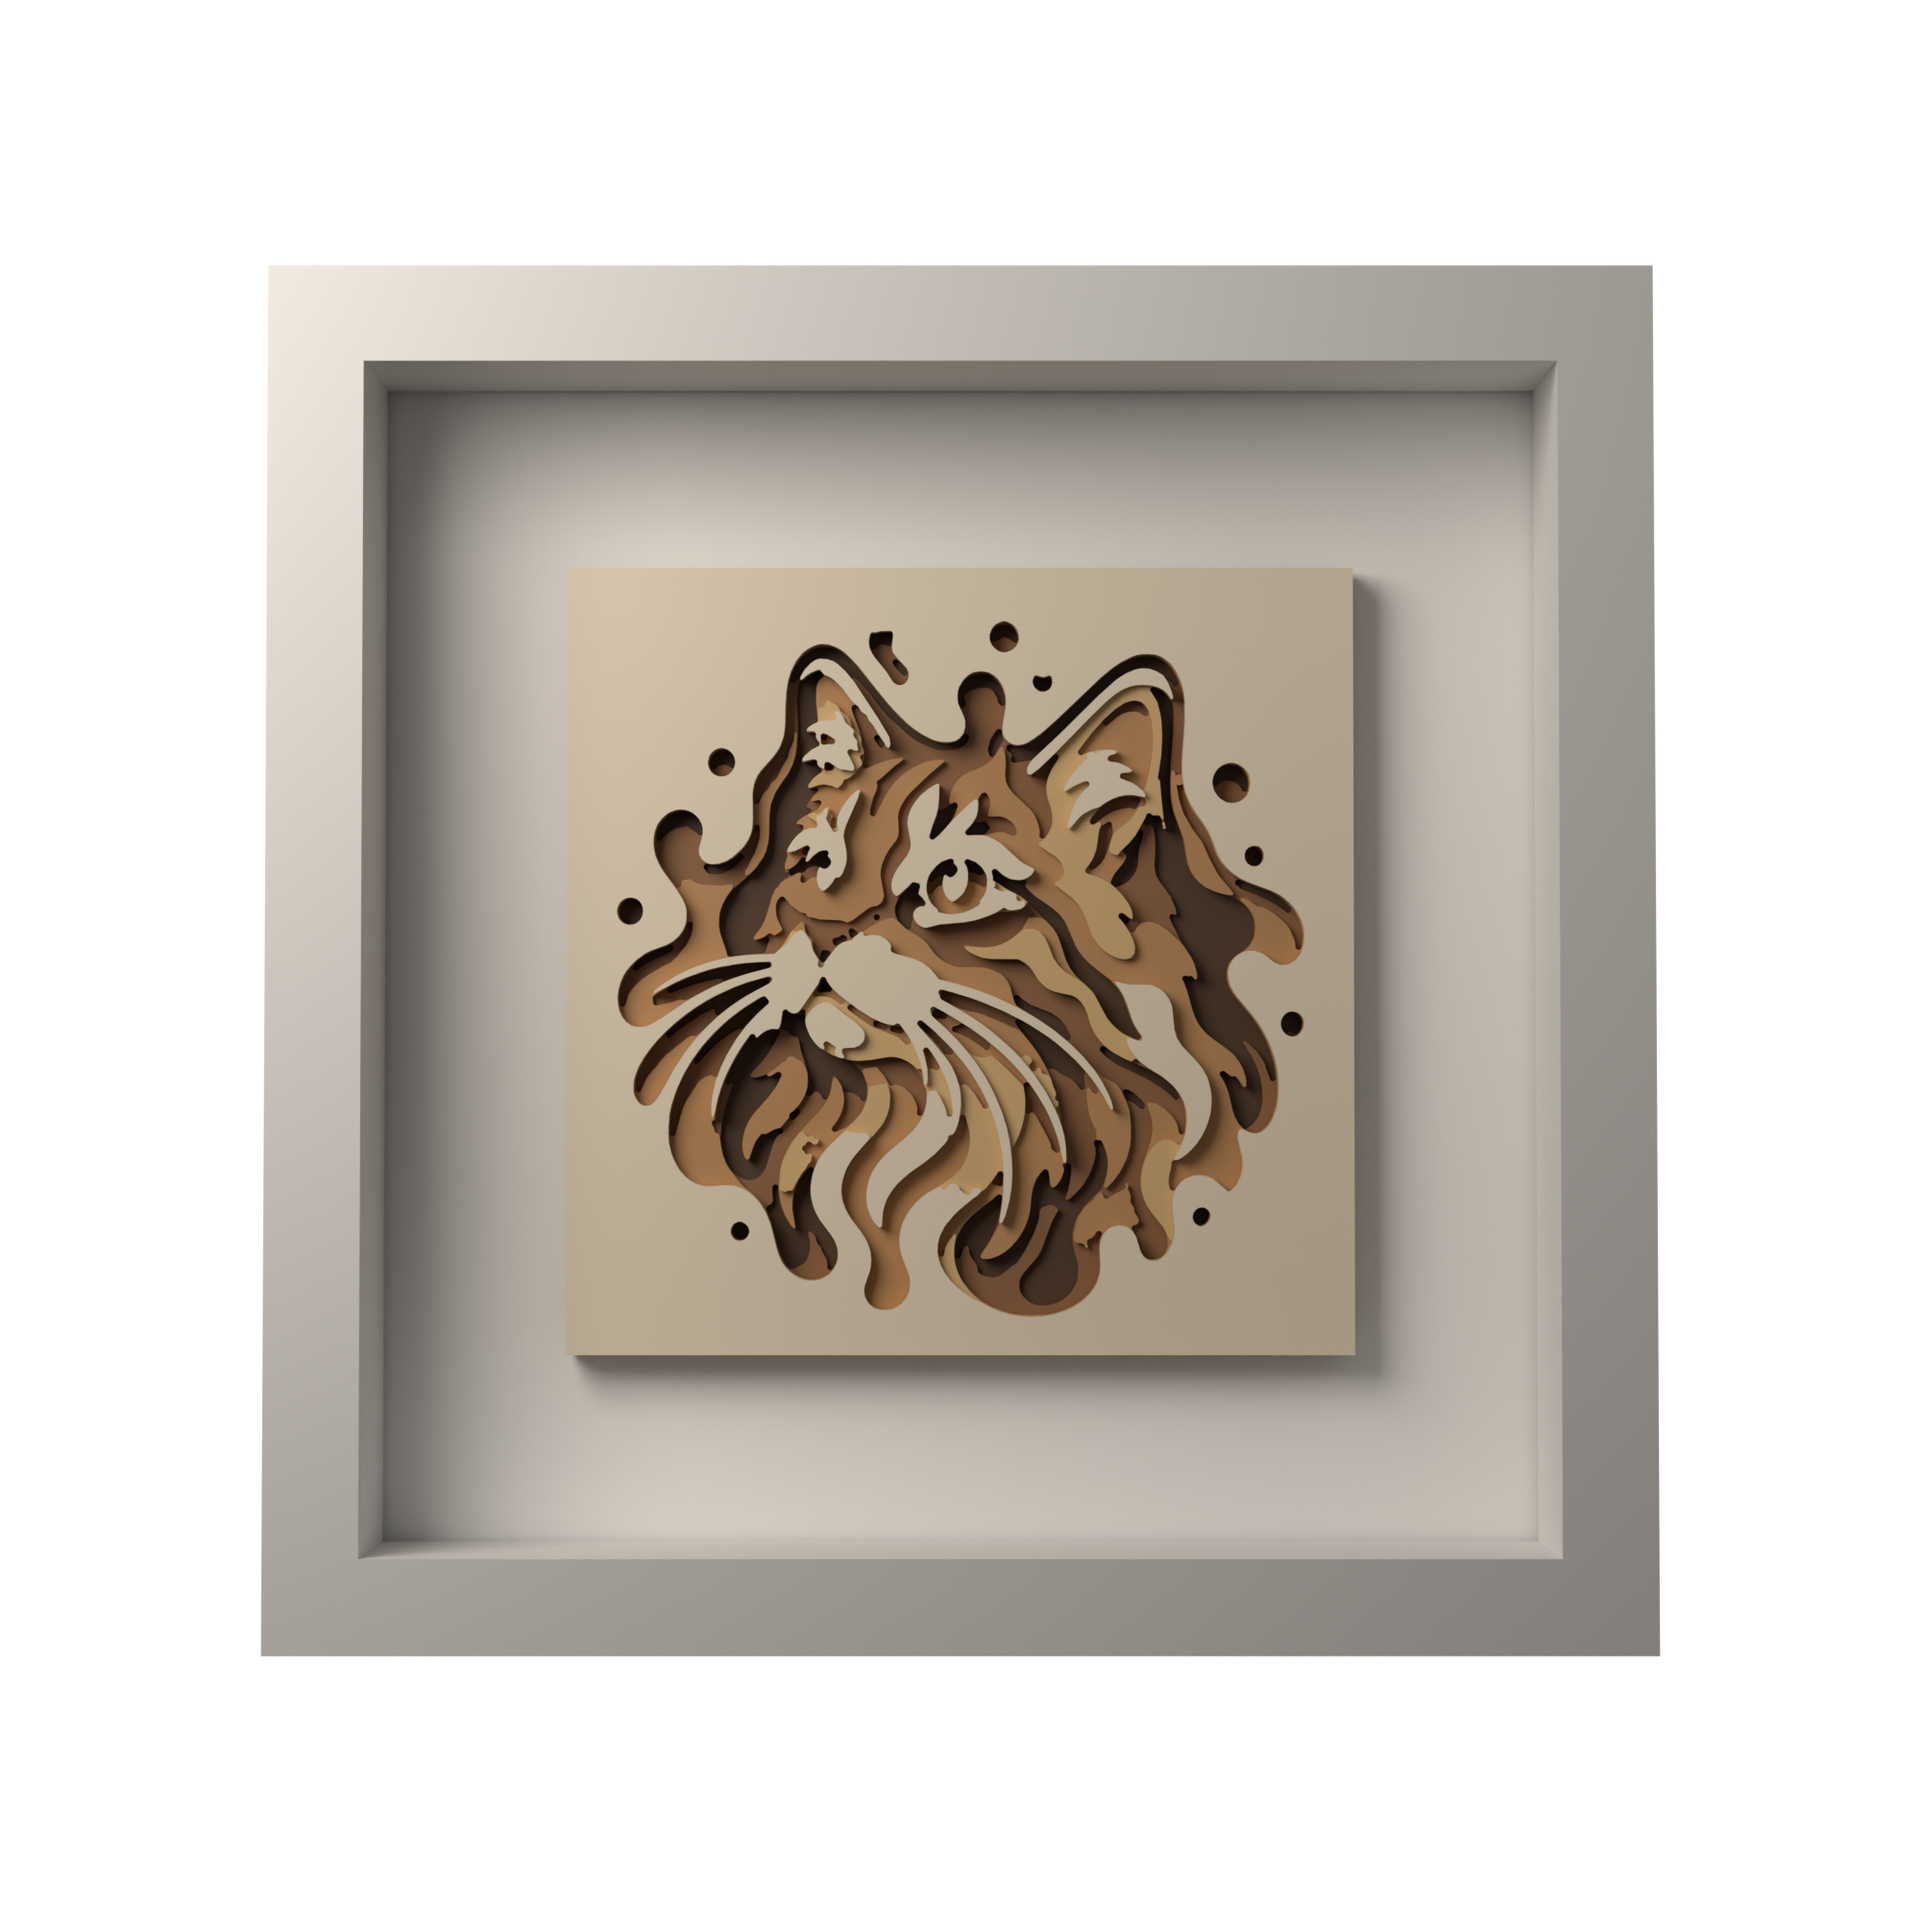
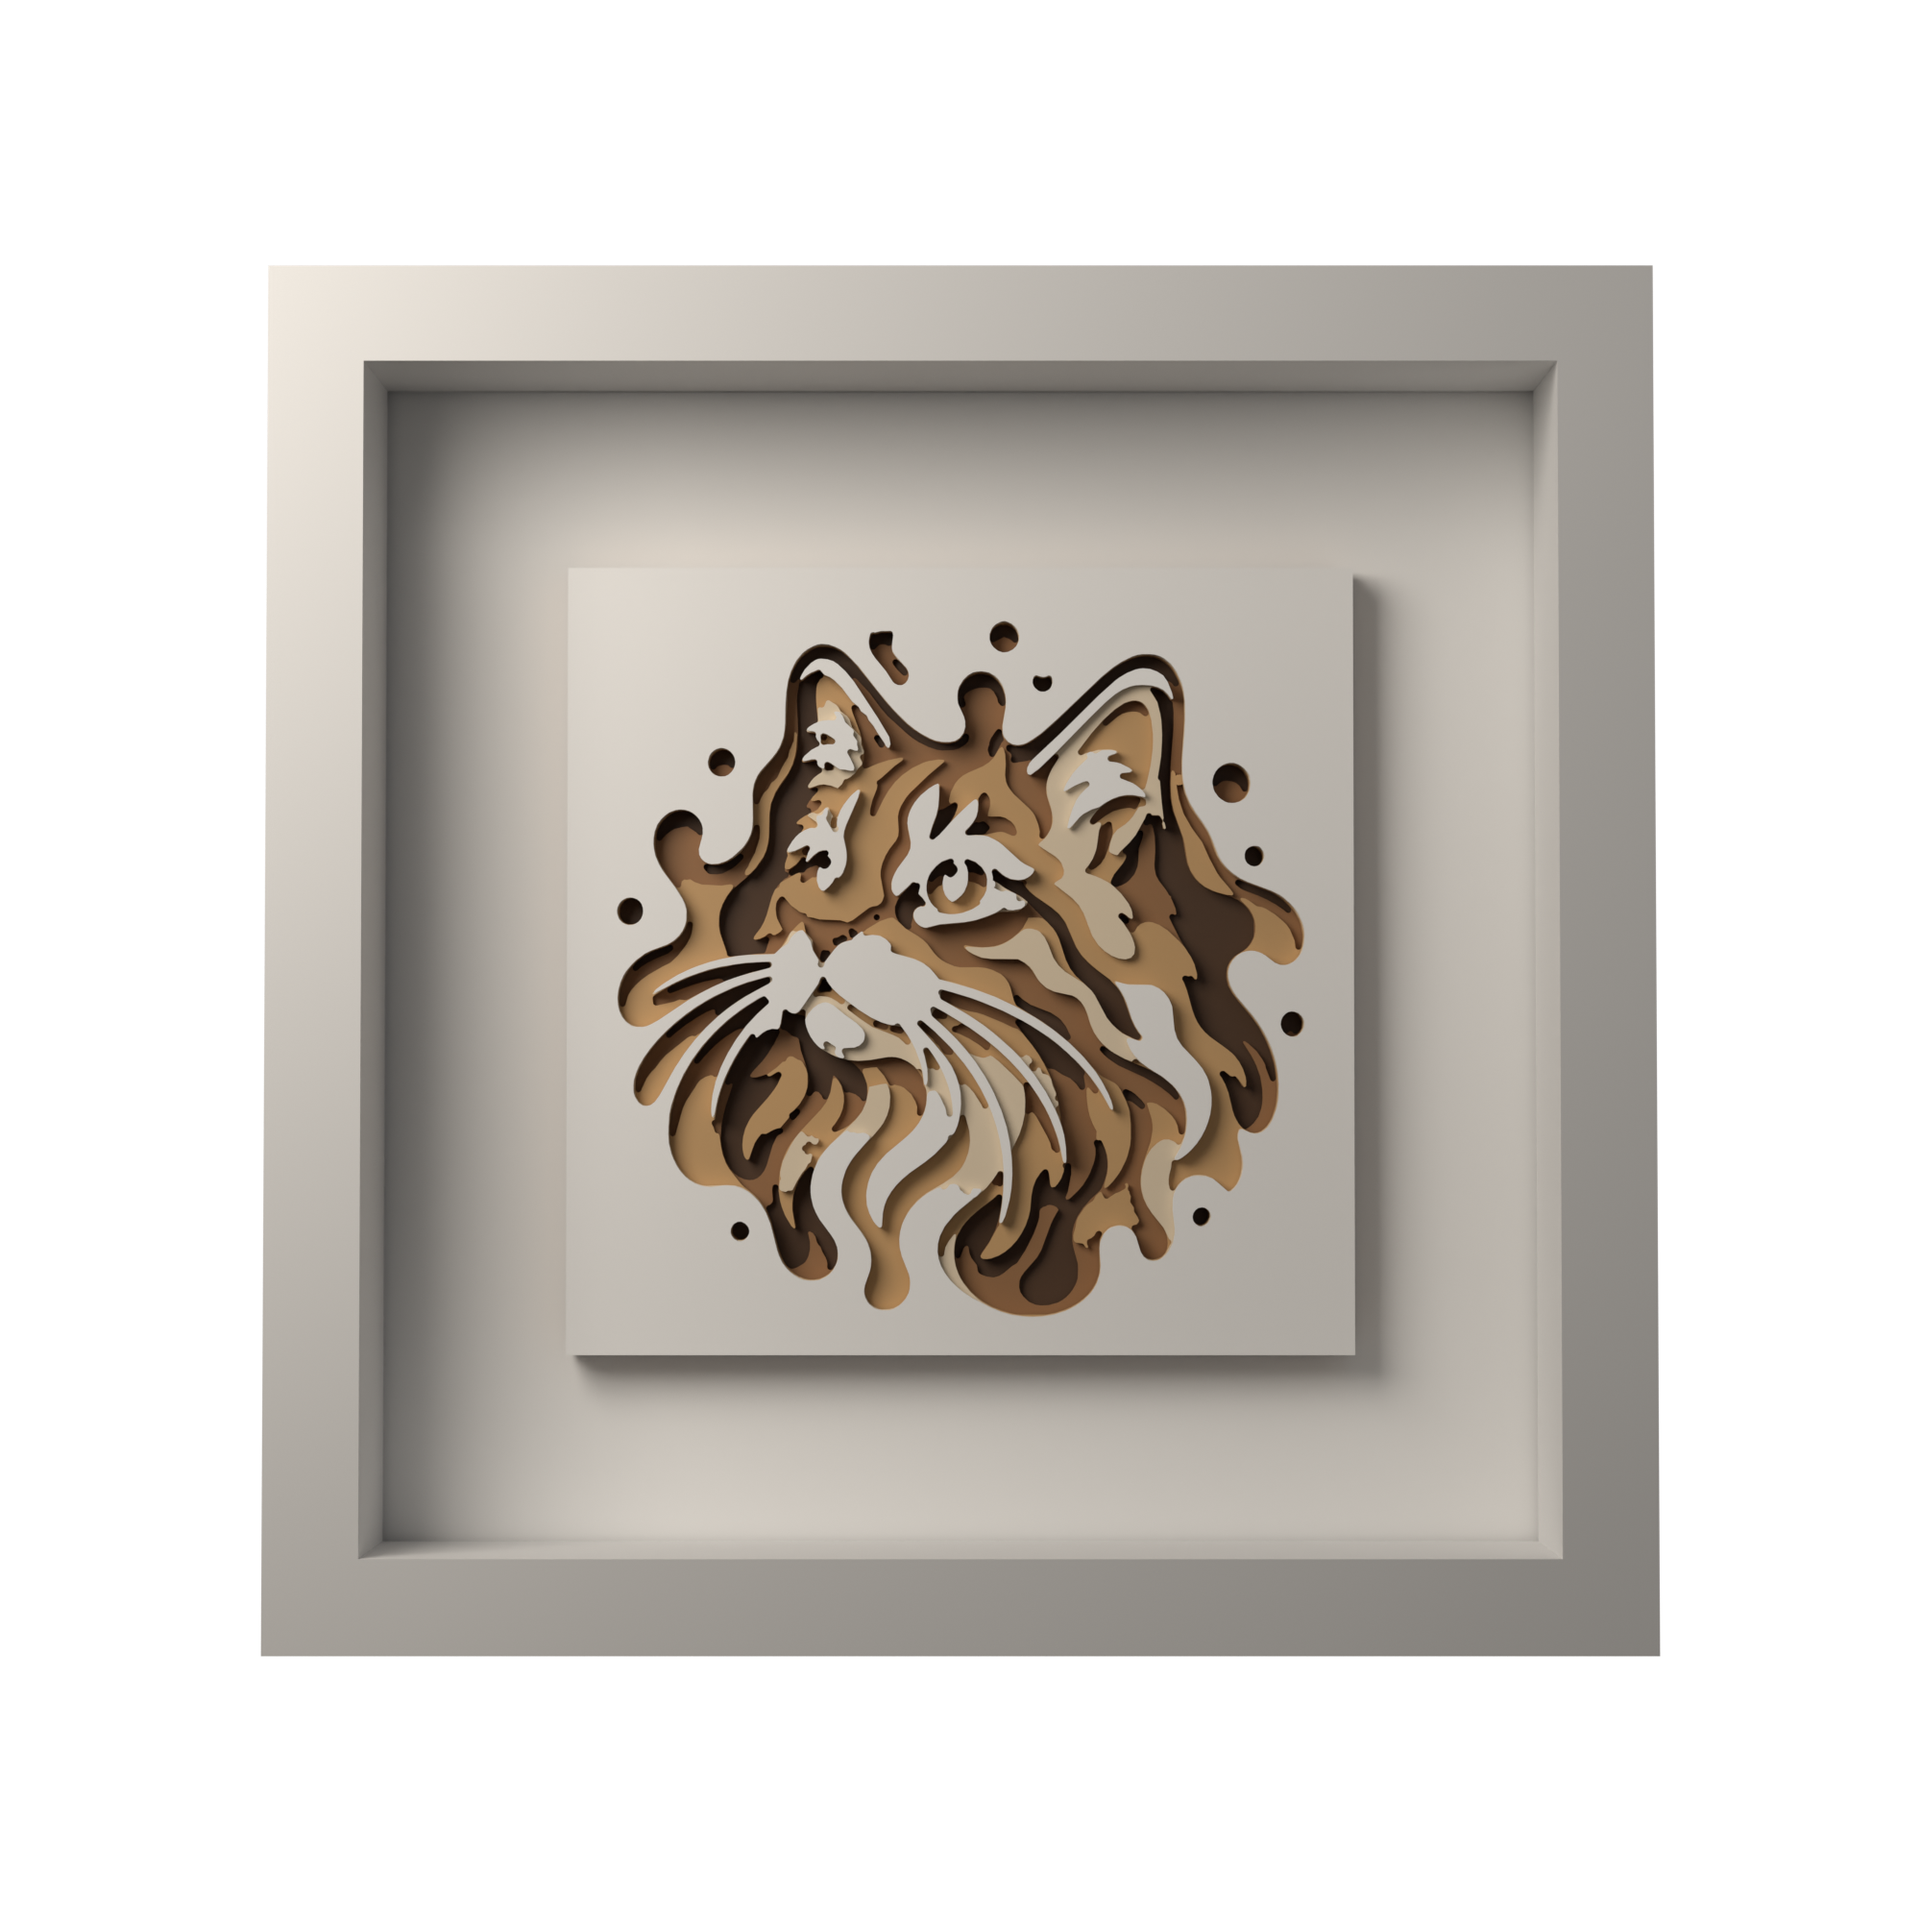
A rampa-palettak vegig atfogjak a tartomanyt (feher felso lap)
A ramp() a paletta elso N szinet vette, ha volt eleg - igy 5 retegnel a
"well" paletta feher vege soha nem kerult sorra, es a felso lap krem lett
fejer helyett. Mostantol csak a SPOT palettak (splatter, catrainbow)
csonkolodnak, mert azok flat foltszinek halmaza; a rampak mindig vegig
interpolalnak, tehat az elso es az utolso szin garantaltan hasznalva van.

Changed region(s): [[0.279, 0.279, 0.713, 0.713]]

diff --git a/product/render_blender.py b/product/render_blender.py
@@ -194,9 +194,9 @@ PALETTES = {
     # so depth reads as shadow falling into the opening
     # Recessed well. Layer 1 is the deepest sheet and layer N the white top
     # sheet, so the palette runs DARK to LIGHT - the opposite of a relief.
-    "well":  [(0.10, 0.055, 0.03, 1), (0.30, 0.15, 0.07, 1), (0.55, 0.30, 0.13, 1),
-              (0.74, 0.50, 0.24, 1), (0.88, 0.78, 0.62, 1), (0.95, 0.93, 0.89, 1),
-              (0.97, 0.965, 0.955, 1), (0.98, 0.975, 0.97, 1)],
+    "well":  [(0.09, 0.048, 0.026, 1), (0.28, 0.14, 0.065, 1), (0.52, 0.28, 0.12, 1),
+              (0.74, 0.50, 0.24, 1), (0.90, 0.80, 0.64, 1),
+              (0.985, 0.982, 0.975, 1)],
     "knot":  [(0.045, 0.045, 0.05, 1), (0.55, 0.08, 0.08, 1), (0.30, 0.30, 0.33, 1),
               (0.62, 0.62, 0.65, 1), (0.82, 0.82, 0.84, 1), (0.95, 0.95, 0.96, 1)],
     # MaWood look: deep red field on the solid backer, near-black strands,
@@ -209,13 +209,18 @@ if PALETTE not in PALETTES:
 BASE = PALETTES.get(PALETTE, PALETTES["wood"])
 
 
+# Spot palettes are a SET of flat colours: blending them makes mud, so they are
+# truncated. Ramp palettes are a RANGE, and must always span end to end - taking
+# the first n entries left the white end of "well" unused at 5 layers, so the
+# top sheet came out cream instead of white.
+SPOT = {"splatter", "catrainbow"}
+
+
 def ramp(pal, n):
-    """Fit a palette to n layers. If the palette already has enough entries take
-    them as they are - blending them would turn a set of flat spot colours into
-    muddy pastels, which is exactly what happened to the splatter palette."""
+    """Fit a palette to n layers."""
     if n <= 1:
         return [pal[-1]]
-    if len(pal) >= n:
+    if PALETTE in SPOT and len(pal) >= n:
         return list(pal[:n])
     out = []
     for i in range(n):
